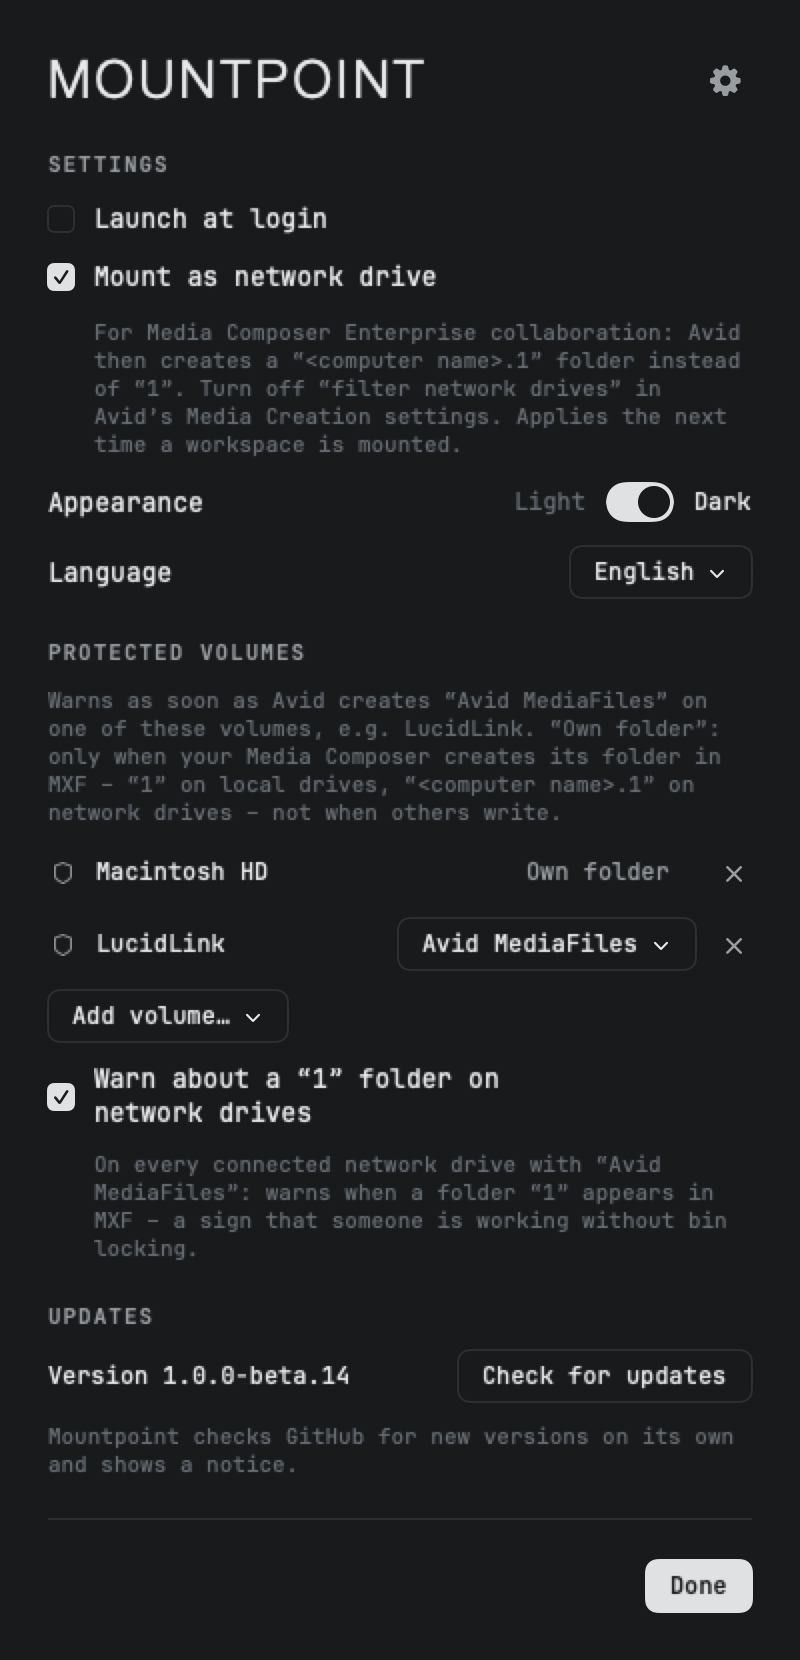
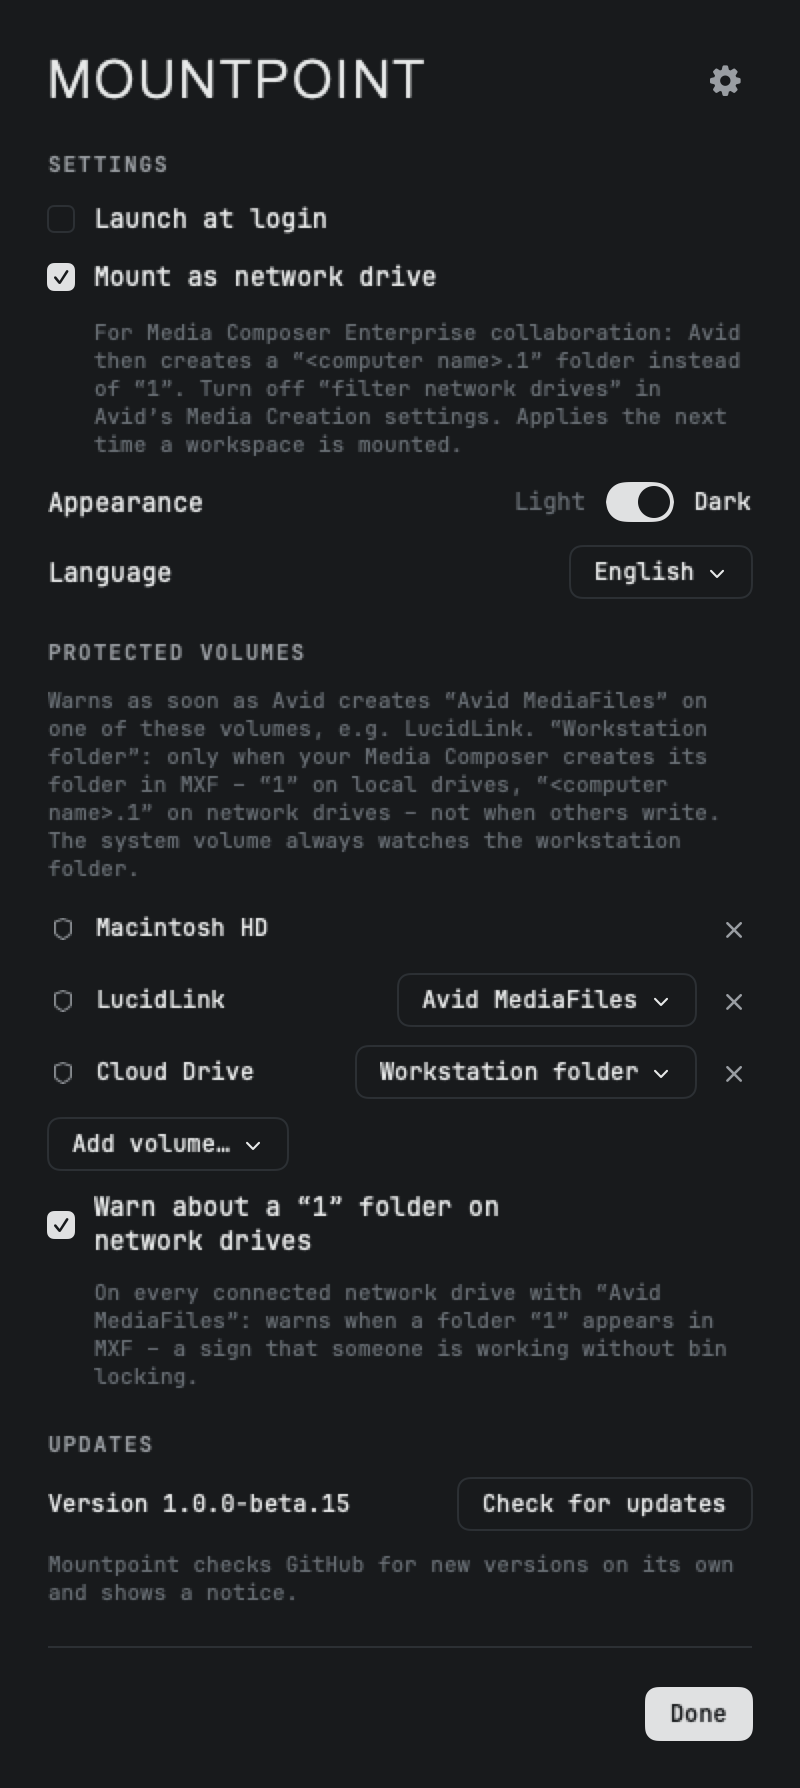
Release 1.0.0 beta 15
"Own folder" heißt jetzt "Workstation folder"; beim Systemvolume steht
keine Auswahl und kein Text mehr. Screenshots erneuert.

diff --git a/Sources/Mountpoint/Panel.swift b/Sources/Mountpoint/Panel.swift
@@ -215,7 +215,7 @@ struct Panel: View {
         }
         VStack(alignment: .leading, spacing: 10) {
             SectionTitle(title: String(localized: "Protected volumes"), theme: t)
-            Text("Warns as soon as Avid creates “Avid MediaFiles” on one of these volumes, e.g. LucidLink. “Own folder”: only when your Media Composer creates its folder in MXF – “1” on local drives, “<computer name>.1” on network drives – not when others write.")
+            Text("Warns as soon as Avid creates “Avid MediaFiles” on one of these volumes, e.g. LucidLink. “Workstation folder”: only when your Media Composer creates its folder in MXF – “1” on local drives, “<computer name>.1” on network drives – not when others write. The system volume always watches the workstation folder.")
                 .font(.mono(11))
                 .foregroundColor(t.faint)
                 .fixedSize(horizontal: false, vertical: true)
@@ -225,14 +225,13 @@ struct Panel: View {
                     Image(systemName: "shield").font(.system(size: 11)).foregroundColor(t.muted).frame(width: 14)
                     Text(guardName(name)).font(.mono(12)).foregroundColor(t.text).lineLimit(1).truncationMode(.middle)
                         .help(guardRoot(name))
+                        .frame(height: 26)   // so hoch wie die Zeilen mit Auswahl
                     Spacer()
-                    if name == systemGuard {
-                        // fest: „Avid MediaFiles“ gibt es dort immer
-                        Text("Own folder").font(.mono(12)).foregroundColor(t.muted).padding(.horizontal, 12).frame(height: 26)
-                    } else {
-                        Dropdown(title: own ? Text("Own folder") : Text(verbatim: "Avid MediaFiles"), theme: t) {
+                    // Systemvolume ohne Auswahl: „Avid MediaFiles“ gibt es dort immer, es zählt der Workstation-Ordner
+                    if name != systemGuard {
+                        Dropdown(title: own ? Text("Workstation folder") : Text(verbatim: "Avid MediaFiles"), theme: t) {
                             Button("Avid MediaFiles") { store.setGuardOwn(name, false) }.disabled(!own)
-                            Button("Own folder") { store.setGuardOwn(name, true) }.disabled(own)
+                            Button("Workstation folder") { store.setGuardOwn(name, true) }.disabled(own)
                         }
                     }
                     Button { store.removeGuard(name) } label: {

diff --git a/CLAUDE.md b/CLAUDE.md
@@ -13,7 +13,7 @@ Mac-only menu bar app (own `NSStatusItem` + `NSPopover` with SwiftUI, `LSUIEleme
 - Always decode `Library` with `decodeIfPresent`: old files without new fields must still load.
 - An unreadable `library.json` is set aside (`library-unreadable-<time>.json`) with a notice – never continue silently with an empty list (the next save would overwrite it).
 - Errors must say what happened and what to do, in plain words (EN + DE); technical output goes after "Details:". Per-workspace errors show in the row, app-wide ones in `Store.notice` (banner in the panel; menu bar icon gets a dot). No `NSAlert` while the panel is open; on quit, an alert lists volumes that stay mounted.
-- Protected volumes have a mode per volume: `Library.guarded` (names; `systemGuard` "/" = system volume, watched at `/Users/Shared/AvidMediaComposer`, shown under its Finder name via `guardName`) and `Library.guardOwn` (names watching only the own folder in MXF; `Library.watchesOwn` – always for the system volume, which has no drop-down: exactly "1" on local volumes, exactly "<ComputerName>.1" (`SCDynamicStoreCopyComputerName`) on non-local ones). Setting `Store.watchNetwork` (default off): every mounted non-local volume with "Avid MediaFiles" warns about a new folder exactly "1" (someone without bin locking). All MXF watches are `FolderWatch` values from `Store.folderWatches()`; the known list is keyed by `FolderWatch.key` ("g:<name>", "net:<path>"). Alerts call `VolumeGuard.hold` (→ AppDelegate.hold) while open: the popover is transient and would close when the alert is clicked.
+- Protected volumes have a mode per volume: `Library.guarded` (names; `systemGuard` "/" = system volume, watched at `/Users/Shared/AvidMediaComposer`, shown under its Finder name via `guardName`) and `Library.guardOwn` (names watching only the own folder in MXF; `Library.watchesOwn` – always for the system volume, which shows no drop-down and no label; UI name "Workstation folder": exactly "1" on local volumes, exactly "<ComputerName>.1" (`SCDynamicStoreCopyComputerName`) on non-local ones). Setting `Store.watchNetwork` (default off): every mounted non-local volume with "Avid MediaFiles" warns about a new folder exactly "1" (someone without bin locking). All MXF watches are `FolderWatch` values from `Store.folderWatches()`; the known list is keyed by `FolderWatch.key` ("g:<name>", "net:<path>"). Alerts call `VolumeGuard.hold` (→ AppDelegate.hold) while open: the popover is transient and would close when the alert is clicked.
 - Workspace errors can be dismissed: × in the row, "Clear error messages" in the project ⋯ menu (`Store.clearError`/`clearErrors(in:)`). They don't vanish on their own – a mount failure at launch must still be visible when the panel is opened later.
 - MXF watches (`<volume>/Avid MediaFiles/MXF`, kqueue + 60 s): no per-workspace/project warning any more (removed in beta 13 at the user's request, old `warnNumbered` keys are ignored). Folders present when watching starts are "known", only new ones alert; "OK" adds them to the known list (UserDefaults `numberedKnown`); deleted folders are dropped from it, so recreating "1" alerts again.
 - No trash: network-style volumes have none, deleting is permanent (the welcome panel says so, also for folders on local drives). A helper workaround that moved Finder deletions into the source volume's trash was removed in 1.0.0 beta 11 at the user's request (it failed for folders on NAS shares) – don't bring it back.

diff --git a/README.md b/README.md
@@ -78,7 +78,7 @@ The menu bar icon (a drive with a folder) appears at the top right. It is filled
 
 Choose per volume what to watch:
 - **Avid MediaFiles** (default) – any `Avid MediaFiles` folder at the top level of the volume.
-- **Own folder** (always for the system volume, without a choice: the Avid installation always creates `Avid MediaFiles` there) – only the folder your own Media Composer writes into in `Avid MediaFiles/MXF`: `1` on local drives, `<computer name>.1` on network drives. Folders other systems write (e.g. on a shared cloud drive) don't alert.
+- **Workstation folder** (always for the system volume, which has no choice: the Avid installation always creates `Avid MediaFiles` there) – only the folder your own Media Composer writes into in `Avid MediaFiles/MXF`: `1` on local drives, `<computer name>.1` on network drives. Folders other systems write (e.g. on a shared cloud drive) don't alert.
 
 The system volume (e.g. *Macintosh HD*) is listed under its Finder name; there Media Composer uses `/Users/Shared/AvidMediaComposer/Avid MediaFiles`, so that is the folder Mountpoint watches.
 
